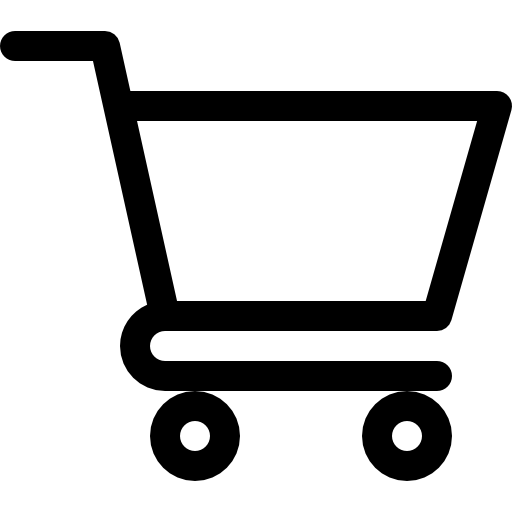
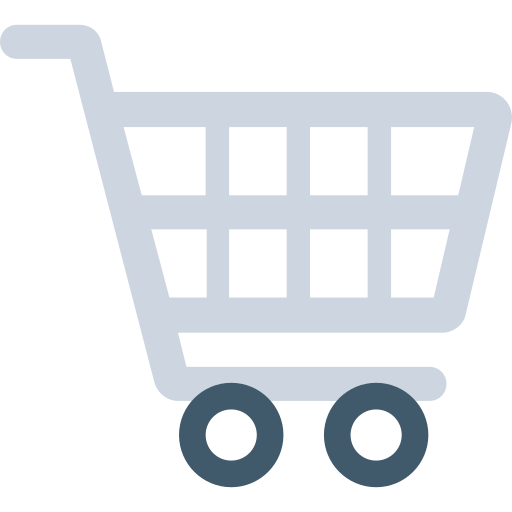
Actualización

diff --git a/css/styles.css b/css/styles.css
@@ -4,7 +4,7 @@ body {
 
     font-family: 'Manrope', sans-serif;
 
-    background-color: #4C5C68;
+    background-color: #ffffff;
 }
 
 a {
@@ -238,10 +238,17 @@ footer a:hover {
 
     cursor: pointer;
     box-shadow: 0 4px 12px rgba(0, 0, 0, 0.2);
+    transition: 0.2s;
 }
 
 .carrito-flotante:hover {
-    background-color: #146b81;
+    transform: scale(1.15);
+}
+
+.carrito-flotante img {
+    width: 35px;
+    height: 35px;
+    object-fit: contain;
 }
 
 .carrito-contador {
@@ -450,6 +457,7 @@ footer a:hover {
     color: #777777;
     text-align: center;
 }
+
 
 
 @media (max-width: 480px) {

diff --git a/index.html b/index.html
@@ -78,7 +78,7 @@
         </section>
 
         <button class="carrito-flotante" id="abrir-carrito" aria-label="Abrir carrito" aria-expanded="false">
-            🛒
+            <img src="./img/cart.png" alt="">
             <span class="carrito-contador" id="carrito-contador">0</span>
         </button>
 
